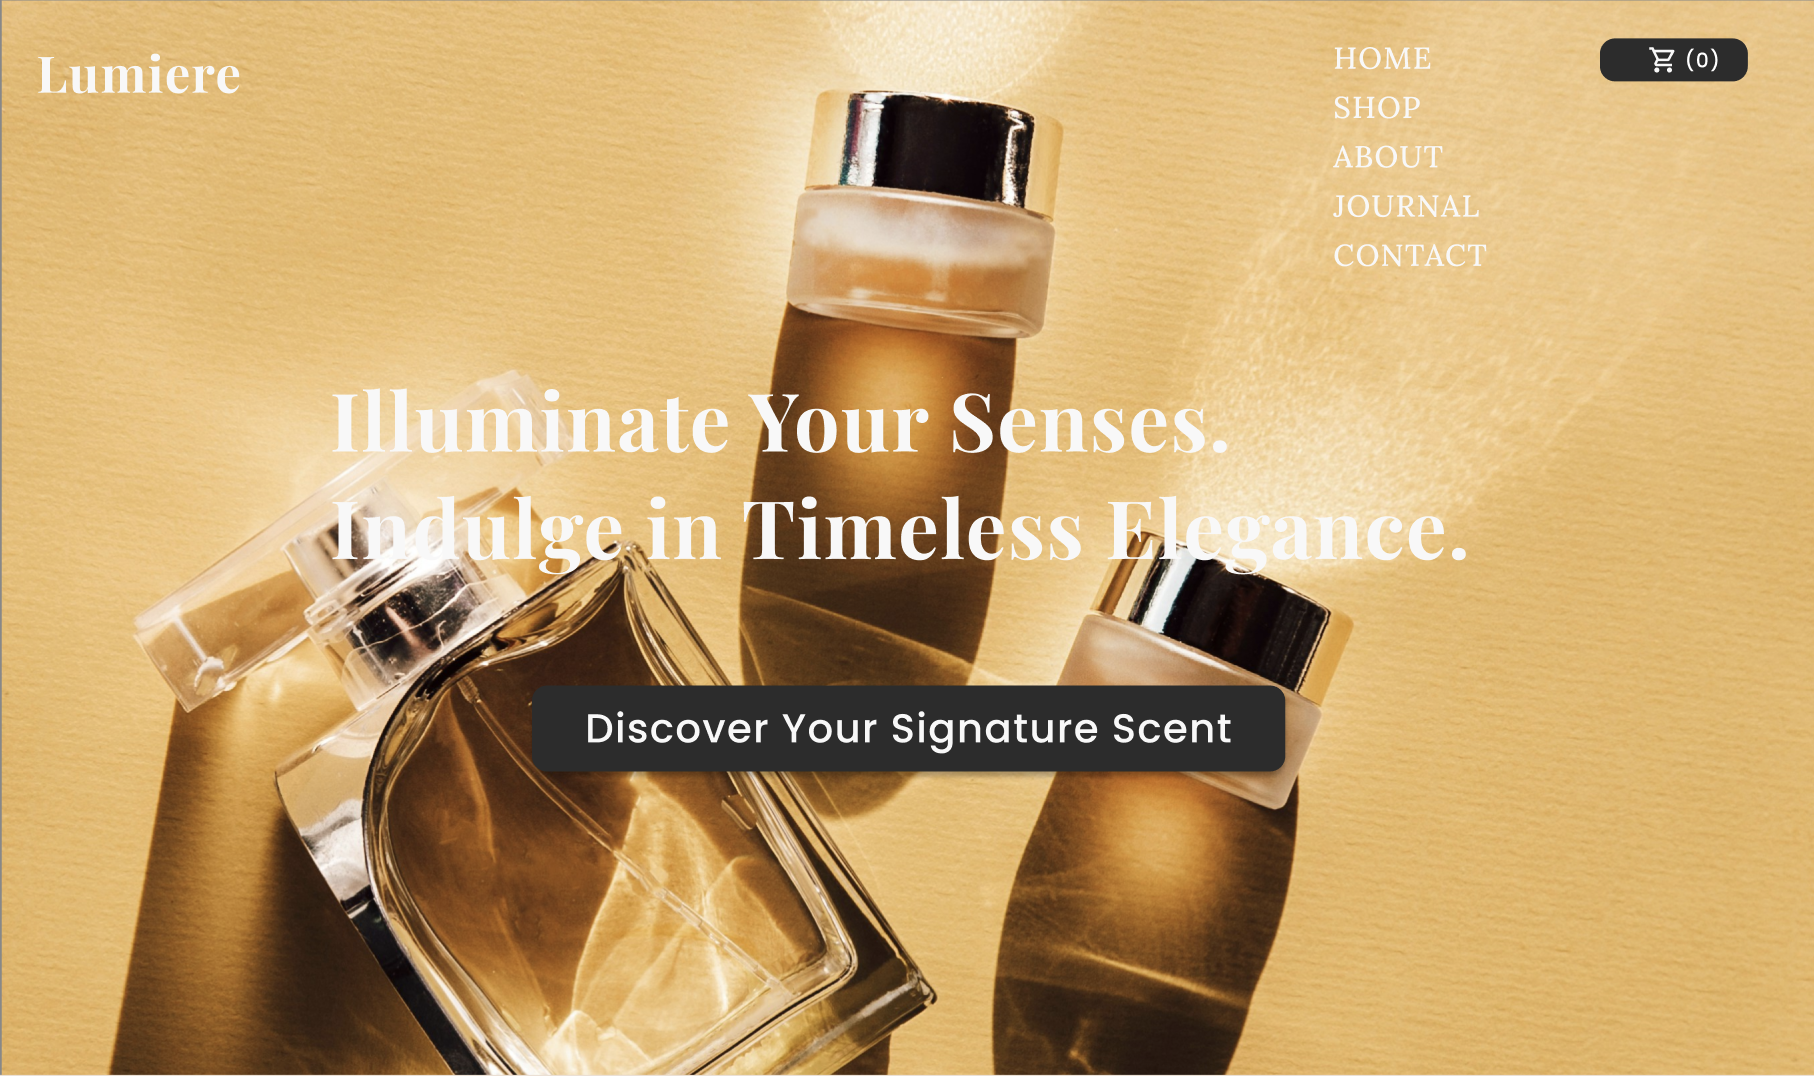
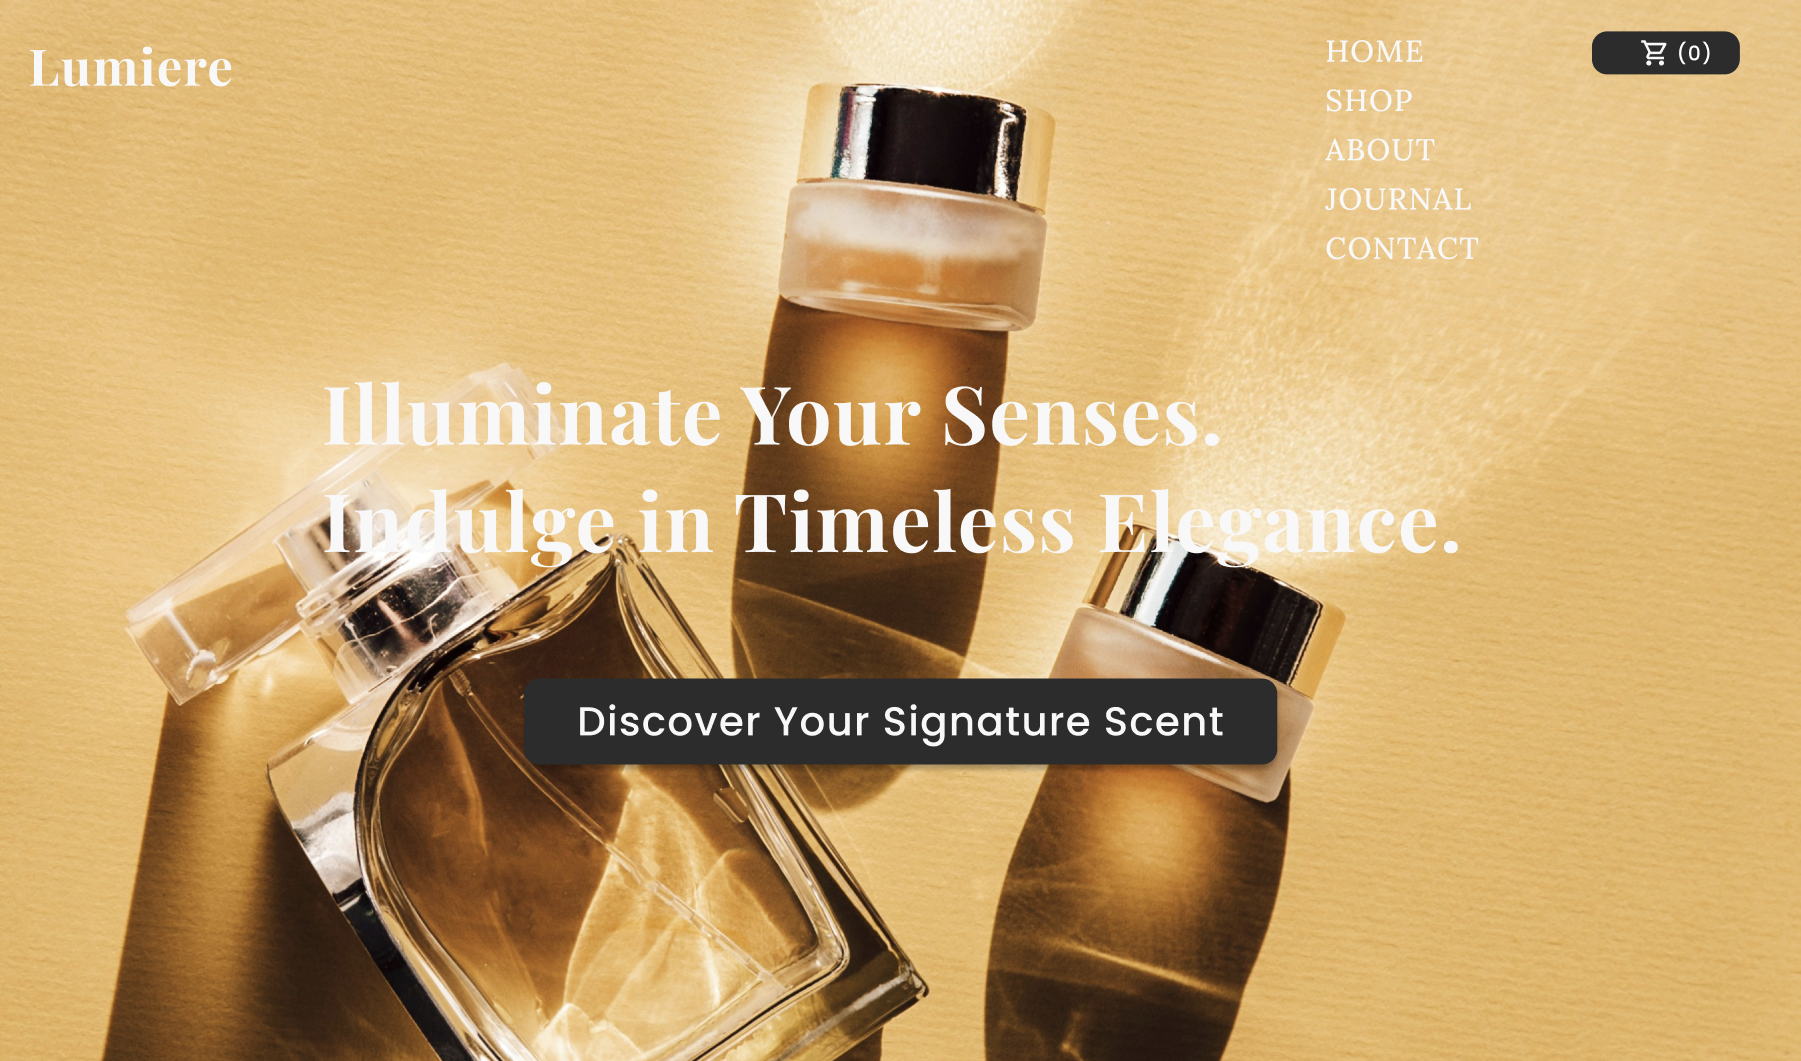
Adding UX/UI iterations

diff --git a/lumiere.html b/lumiere.html
@@ -28,7 +28,10 @@
 			<section id="overview">
 				<h1>Lumiere</h1>
 				<p>This case study details the design and development of a static website for Lumiere Fragrance, a fictional luxury fragrance brand. The project aimed to create a visually captivating and user-friendly online experience that would showcase the brand's signature scents, embody its commitment to quality and craftsmanship, and ultimately drive customer engagement. My role encompassed both UX/UI design and front-end web development, allowing for a cohesive and integrated approach.</p>
-				<img src="images/lumiere.png" alt="Lumiere website screenshot">  
+				<figure>
+					<img src="images/lumiere.png" alt="Lumiere website screenshot"> 
+					<figcaption>Lumiere website screenshot</figcaption>
+				</figure>
 				<h3>Project Goals</h3>
 				<ul>
 					<li>Develop a visually stunning website that reflects the brand's luxurious image.</li>
@@ -41,18 +44,78 @@
 			
 			<section id="ux-ui-design">
 				<h2>UX/UI Design Process</h2>
-				<ol>
-					<li><strong>Brand Research and Inspiration:</strong> I began by immersing myself in the world of luxury fragrances, researching competitor websites and identifying key design elements that convey elegance and sophistication. This research informed the visual direction and overall aesthetic of the website.</li>
-					<li><strong>User Flow and Information Architecture:</strong> I mapped out the user journey, focusing on how visitors would navigate the site to discover and explore the fragrance collection.  A clear information architecture was crucial for ensuring a smooth and intuitive browsing experience.  (***Visuals like a simplified sitemap or user flow diagram would be placed here in a real portfolio).</li>
-					<li><strong>Wireframing and Prototyping:</strong> Low-fidelity wireframes were created to outline the website's layout and structure, focusing on usability and information hierarchy. These wireframes were then translated into high-fidelity mockups, showcasing the visual design, typography, and color palette.</li>
-					<embed src="images/Lumiere wireframe.pdf" width="500" height="500" type="application/pdf">
+				<h3>User Research and Iteration</h3>
+
+				<p>The design of the Lumiere Fragrance website was an iterative process, informed by user feedback and testing.  Several key changes were implemented between versions to improve user engagement and overall experience.</p>
+
+				<h4>Version 1.0 to 2.0</h4>
+
+				<p>The initial version of the website (v1.0) served as a foundation for testing and gathering feedback.  Based on initial user reviews and heuristic evaluations, the following changes were made for version 2.0:</p>
+
+				<ul>
+					<li><strong>Improved Readability:</strong> The "About" section text was broken into smaller paragraphs to enhance readability and make the content more digestible.</li>
+					<li><strong>Enhanced Social Engagement:</strong> The size of social media links was increased to make them more prominent and encourage social sharing.</li>
+					<li><strong>Engaging Newsletter Signup:</strong> The newsletter signup title was changed to "Get Exclusive Access to New Scents & Special Offers" to be more compelling and benefit-driven.</li>
+					<li><strong>Stronger Call to Action:</strong> The primary call to action was updated from "Discover Scents" to "Find Your Scent" to be more action-oriented and personalized.</li>
+				</ul>
+
+				<figure>
+					<img src="images/Lumiere v1.0.png" alt="Lumiere v1.0">
+					<figcaption>Lumiere v1.0</figcaption>
+				</figure>
+				<figure>
+					<img src="images/Lumiere v2.0.png" alt="Lumiere v2.0">
+					<figcaption>Lumiere v2.0</figcaption>
+				</figure>
+
+				<h4>Version 2.0 to 3.0</h4>
+
+				<p>Building on the improvements in v2.0, further refinements were made for version 3.0 based on continued user feedback and analysis:</p>
+
+				<ul>
+					<li><strong>Enhanced About Section:</strong> Key words in the "About" section were bolded to draw attention to important information and improve scannability.</li>
+					<li><strong>Enriched Scent Descriptions:</strong>  Detailed descriptions were added to each fragrance to provide users with more information and help them make informed choices.</li>
+					<li><strong>Refined Call to Action:</strong> The call to action was further refined to "Discover Your Signature Scent" to be even more personalized and aspirational.</li>
+				</ul>
+
+				<figure>
+					<img src="images/Lumiere v2.0.png" alt="Lumiere v2.0">
+					<figcaption>Lumiere v2.0</figcaption>
+				</figure>
+				<figure>
+					<img src="images/Lumiere v3.0.png" alt="Lumiere v3.0">
+					<figcaption>Lumiere v3.0</figcaption>
+				</figure>
+
+
+				<h3>Wireframes</h3>
+				<p>Low-fidelity wireframes were created to outline the website's layout and structure, focusing on usability and information hierarchy. These wireframes were then translated into high-fidelity mockups, showcasing the visual design, typography, and color palette.</p>
+				<figure>
+					<embed src="images/Lumiere wireframe.pdf">
 					<figcaption>This wireframe outlines the homepage layout, prioritizing the display of featured fragrances and a clear call to action to explore the collection. The user flow is designed to be intuitive, guiding visitors to key information.</figcaption>
-					<embed src="images/Lumiere v3.0.png" width="600" height="700" type="application/pdf">
+				</figure>
+
+				<h3>Mockups</h3>
+				<figure>
+					<img src="images/Lumiere v3.0.png">
 					<figcaption>The high-fidelity mockup refines the visual design, incorporating brand elements and imagery to create a luxurious and engaging user experience.</figcaption>
-					<li><strong>Visual Design and Branding:</strong> The visual design was carefully crafted to reflect Lumiere's brand identity.  A sophisticated color palette, elegant typography, and high-quality imagery were selected to create a sense of luxury and exclusivity.</li>
+				</figure>
+
+				<h3>Style Guide</h3>
+				<p>The visual design was carefully crafted to reflect Lumiere's brand identity.  A sophisticated color palette, elegant typography, and high-quality imagery were selected to create a sense of luxury and exclusivity.</p>
+				<h4>Color Palette</h4>
+				<p>The color palette plays a crucial role in conveying the brand's identity. We chose a three-color scheme centered around a rich gold (#D4AF37) as the primary accent. Gold is universally associated with luxury, opulence, and prestige, reflecting the high quality and exclusivity of Lumiere's fragrances. It evokes a sense of timelessness and sophistication, aligning with the brand's desire to create fragrances that transcend fleeting trends.</p>
+				<p>To balance the richness of the gold, we incorporated a dark gray (#2C2C2C) as the secondary color. This dark gray provides a sophisticated and understated backdrop, allowing the gold to truly shine.  It also offers excellent contrast for text, ensuring readability and a user-friendly experience. The dark gray adds a touch of modernity and refinement, complementing the classic elegance of the gold.</p>
+				<p>Finally, an off-white or cream (#F8F8F8) was selected as the background color. This soft, neutral tone creates a clean and elegant canvas, allowing the fragrances and other visual elements to stand out. It provides a subtle warmth and avoids the starkness of pure white, contributing to a more inviting and luxurious feel. The off-white background also enhances the overall sense of sophistication and refinement.</p>
+
+				<h4>Typography</h4>
+				<p>The typography choices were equally important in establishing the brand's visual identity.  For headings and titles, we selected Playfair Display and Lora. Playfair Display is a classic serif font known for its elegant and refined letterforms. It exudes a sense of timelessness and sophistication, echoing the brand's commitment to creating fragrances that are both classic and contemporary. The use of a serif font for headings adds a touch of formality and grandeur, reflecting the luxurious nature of the brand.</p>
+				<p>For body text and smaller text elements, we opted for Poppins. Poppins is a clean, modern, and highly legible sans-serif font. It provides excellent readability and ensures a user-friendly experience, particularly for longer text blocks like fragrance descriptions or about us content. The use of a sans-serif font for body text creates a subtle contrast with the serif font used for headings, adding visual interest while maintaining a sense of balance and harmony.</p>
+				<p>The combination of Playfair Display, Lora, and Poppins creates a visually compelling and harmonious typographic system. It balances elegance and readability, reflecting the brand's commitment to both aesthetics and user experience. The typography reinforces the overall sense of luxury and sophistication, contributing to a cohesive and impactful brand identity for Lumiere Fragrance.</p>
+				<figure>
 					<img src="images/Lumiere-style-guide.png" width="500">
 					<figcaption>The style guide outlines the brand's color palette and typography guidelines, ensuring consistency across all design elements.</figcaption>
-				</ol>
+				</figure>
 			</section>
 			
 			<section id="web-development">
@@ -76,8 +139,10 @@
 				<ul>
 					<li><strong>Challenge:</strong> Creating a visually engaging scent slider with only HTML and CSS.</li>
 					<li><strong>Solution:</strong> Leveraged CSS properties like overflow-x: auto and scroll-snap to create a horizontally scrolling container for the scent cards. While basic, this provides the desired functionality without JavaScript.</li>
-					<img src="images/slide.gif" width=500 height=300 alt="Scent Slider">
-					<figcaption>The scent showcase slider allows users to scroll horizontally through the fragrance collection, each card displaying a unique scent and product information.</figcaption>
+					<figure>
+                        <img src="images/slide.gif" width="500" height="300" alt="Scent Slider">
+                        <figcaption>The scent showcase slider allows users to scroll horizontally through the fragrance collection, each card displaying a unique scent and product information.</figcaption>
+                    </figure>
 				</ul>
 			</section>
 			

diff --git a/css/styles.css b/css/styles.css
@@ -85,6 +85,20 @@ h2 {
     color: #555;
 }
 
+h3 {
+	font-size: 1.5em;
+	margin-top: 30px;
+	margin-bottom: 20px;
+	color: #555;
+}
+
+h4 {
+	font-size: 1.2em;
+	margin-top: 30px;
+	margin-bottom: 20px;
+	color: #555;
+}
+
 .project-grid {
     display: grid;
     grid-template-columns: repeat(auto-fit, minmax(300px, 1fr));
@@ -123,14 +137,9 @@ h2 {
 .project-card a {
     display: block;
     margin: 10px 0;
-    color: #268bd2;
     text-decoration: none;
     font-weight: 500;
     transition: color 0.3s;
-}
-
-.project-card a:hover {
-    color: #0056b3;
 }
 
 #overview img {
@@ -169,13 +178,8 @@ h2 {
 .contact-me a {
     text-decoration: none;
     font-family: 'Roboto', sans-serif;
-    color: #268bd2;
     margin-right: 20px;
     transition: color 0.3s;
-}
-
-.contact-me a:hover {
-    color: #0056b3;
 }
 
 /* Hamburger menu styles */
@@ -205,12 +209,23 @@ h2 {
     display: none;
 }
 
+figure {
+    margin: 20px 0;
+    text-align: center;
+}
+
+figure img,
+figure embed {
+    max-width: 100%;
+    height: auto;
+    border-radius: 8px;
+    box-shadow: 0 4px 8px rgba(0, 0, 0, 0.1);
+}
+
 figcaption {
-	font-size: 0.8em;
-	color: #777;
-	margin-top: 10px;
-	margin-bottom: 10px;
-	max-width: 300px;
+    font-size: 0.9em;
+    color: #777;
+    margin-top: 10px;
 }
 
 /* Media queries for responsiveness */
